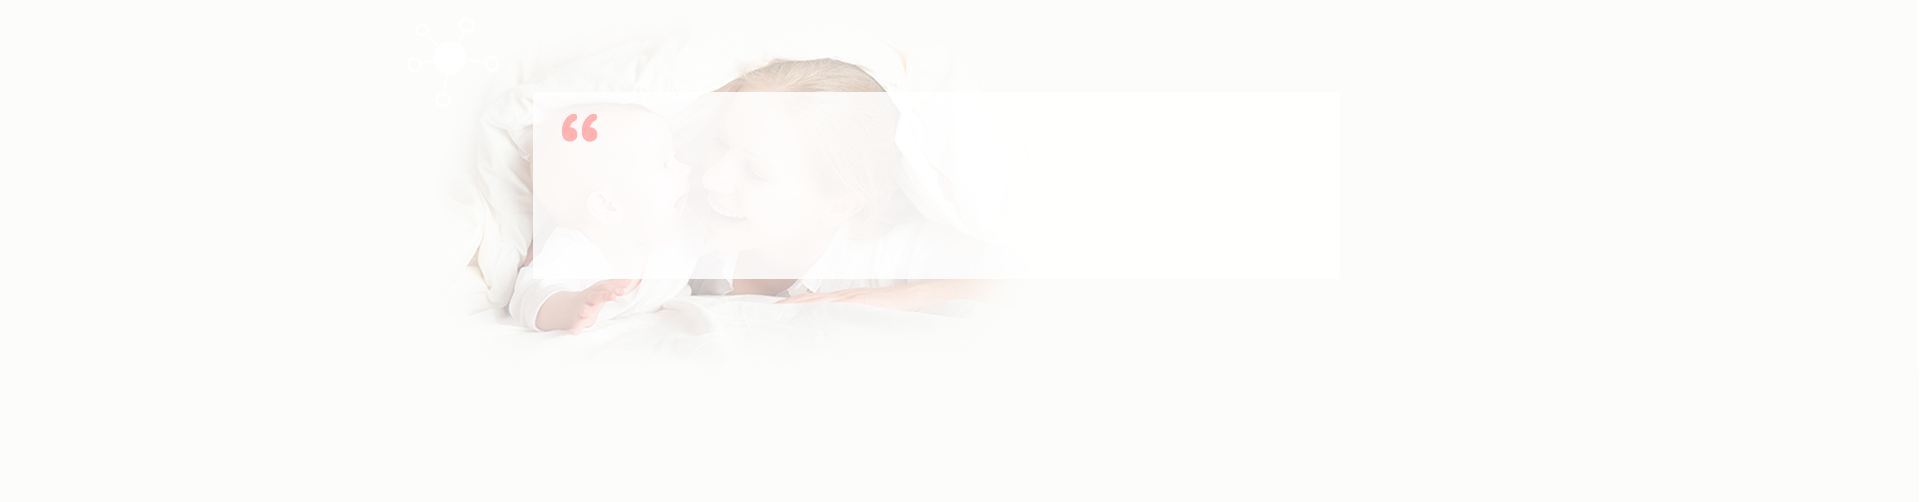
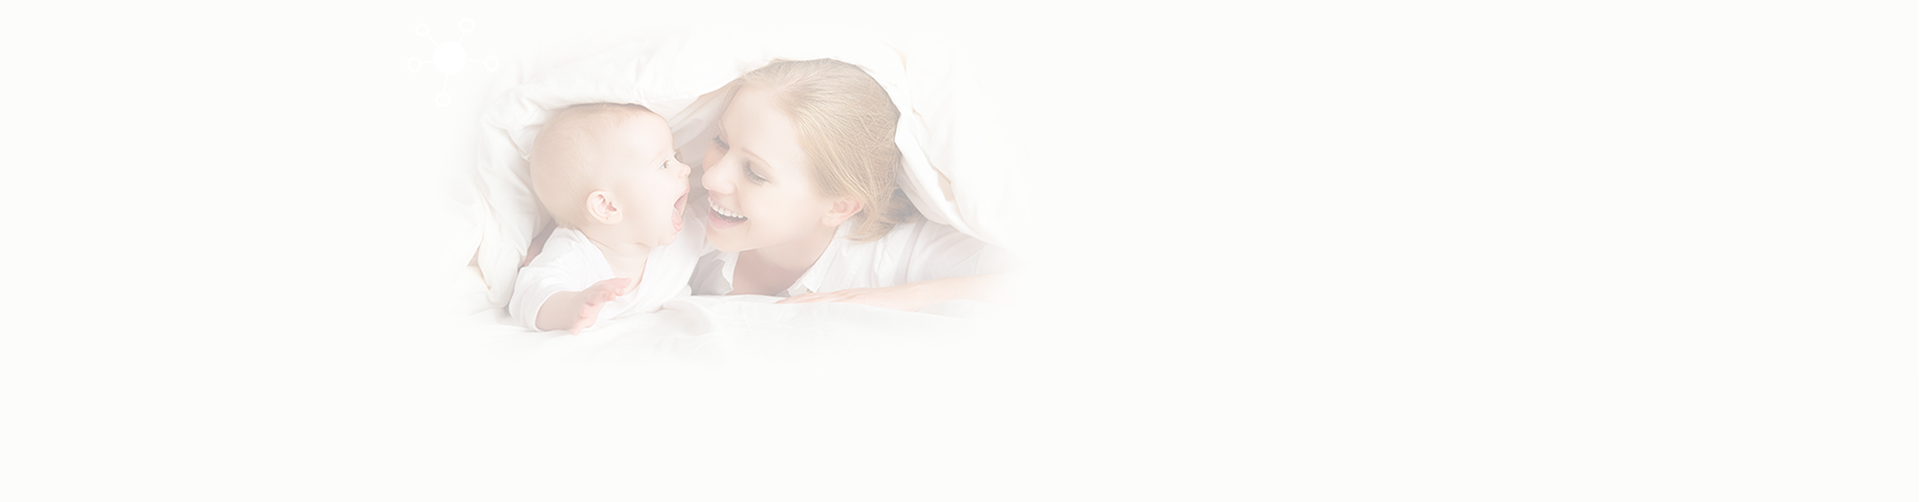
custom feedback

Changed region(s): [[0.25, 0.1793, 0.5312, 0.5677], [0.4688, 0.5378, 0.5, 0.5677]]

diff --git a/public/static/css/style.css b/public/static/css/style.css
@@ -2736,10 +2736,9 @@ body > .navbar-collapse .navbar-search .btn-primary:hover {
 }
 
 .customPagenation{
-  position: absolute;
-  bottom: 0;
-  left: 0;
-  right: 0;
+  position: relative;
+  display: block;
+  clear: both;
   width: 100%;
   height: 100px;
   text-align: center;
@@ -2747,14 +2746,25 @@ body > .navbar-collapse .navbar-search .btn-primary:hover {
    font-family: 'Avenir Next LT Pro Italic';
 
 }
+
+.custompWrap{
+  width: 800px;
+  height: auto;
+  margin: 80px auto 20px;
+  background: rgba(255, 255, 255, 0.8)
+}
 .customP{
   width: 680px;
-  height: 80px;
+  min-height: 160px;
+  height: auto;
+  display: block;
   color: #f6bbb7;
   font-style: italic;
-  margin: 120px auto 0;
+  padding: 50px 0 10px 80px;
   line-height: 32px;
-    font-family: 'Avenir Next LT Pro Italic';
+  font-family: 'Avenir Next LT Pro Italic';
+  background: url(/img/homecustom_p_bg.png) 30px 20px no-repeat;
+
 }
 .customP i {
   color: #f6bbb7 !important;
@@ -2764,8 +2774,9 @@ body > .navbar-collapse .navbar-search .btn-primary:hover {
 
 .custom-container{
   width: 1000px;
-  height: 400px;
-  position: relative;  
+  height: auto;
+  min-height: 400px;
+  position: relative;
 }
 .customPagenation .swiper-button-next-custom, .customPagenation .swiper-button-prev-custom{
   display: inline-block;
@@ -2822,35 +2833,17 @@ body > .navbar-collapse .navbar-search .btn-primary:hover {
 
 
 @media (max-width: 767px) {
-
+      .custom-container .custompWrap{
+        width: 100% !important;
+      }
       .custom-container, .customP{
         width: 100%;
         padding: 0 10px;
+        background: none !important;
       }
 
-  .customPagenation .swiper-pagination-bullet img {
-        opacity: 0.6;
-         width: 30px;
-        height: 30px;
-        border-radius: 30px;
-        display: block;
 
-    }
 
-    .customPagenation .swiper-pagination-bullet-active img {
-        width: 45px;
-        height: 45px;
-        border-radius: 45px;
-
-    }
-
-    .customPagenation .swiper-pagination-bullet{
-        width: 50px;
-        font-size: 16px;
-      }
-    .customPagenation .swiper-pagination-customer {
-
-    }
 }
 
 
@@ -4078,4 +4071,14 @@ background: url('/img/Product-@2x.png') right bottom no-repeat;
 }
 .tm i {
   display: none !important;
+}
+@media (max-width: 480px) {
+  .customPagenation .swiper-button-next-custom{
+   display: none !important;
+  }
+
+    .customPagenation .swiper-button-prev-custom{
+   display: none !important;
+  }
+
 }
